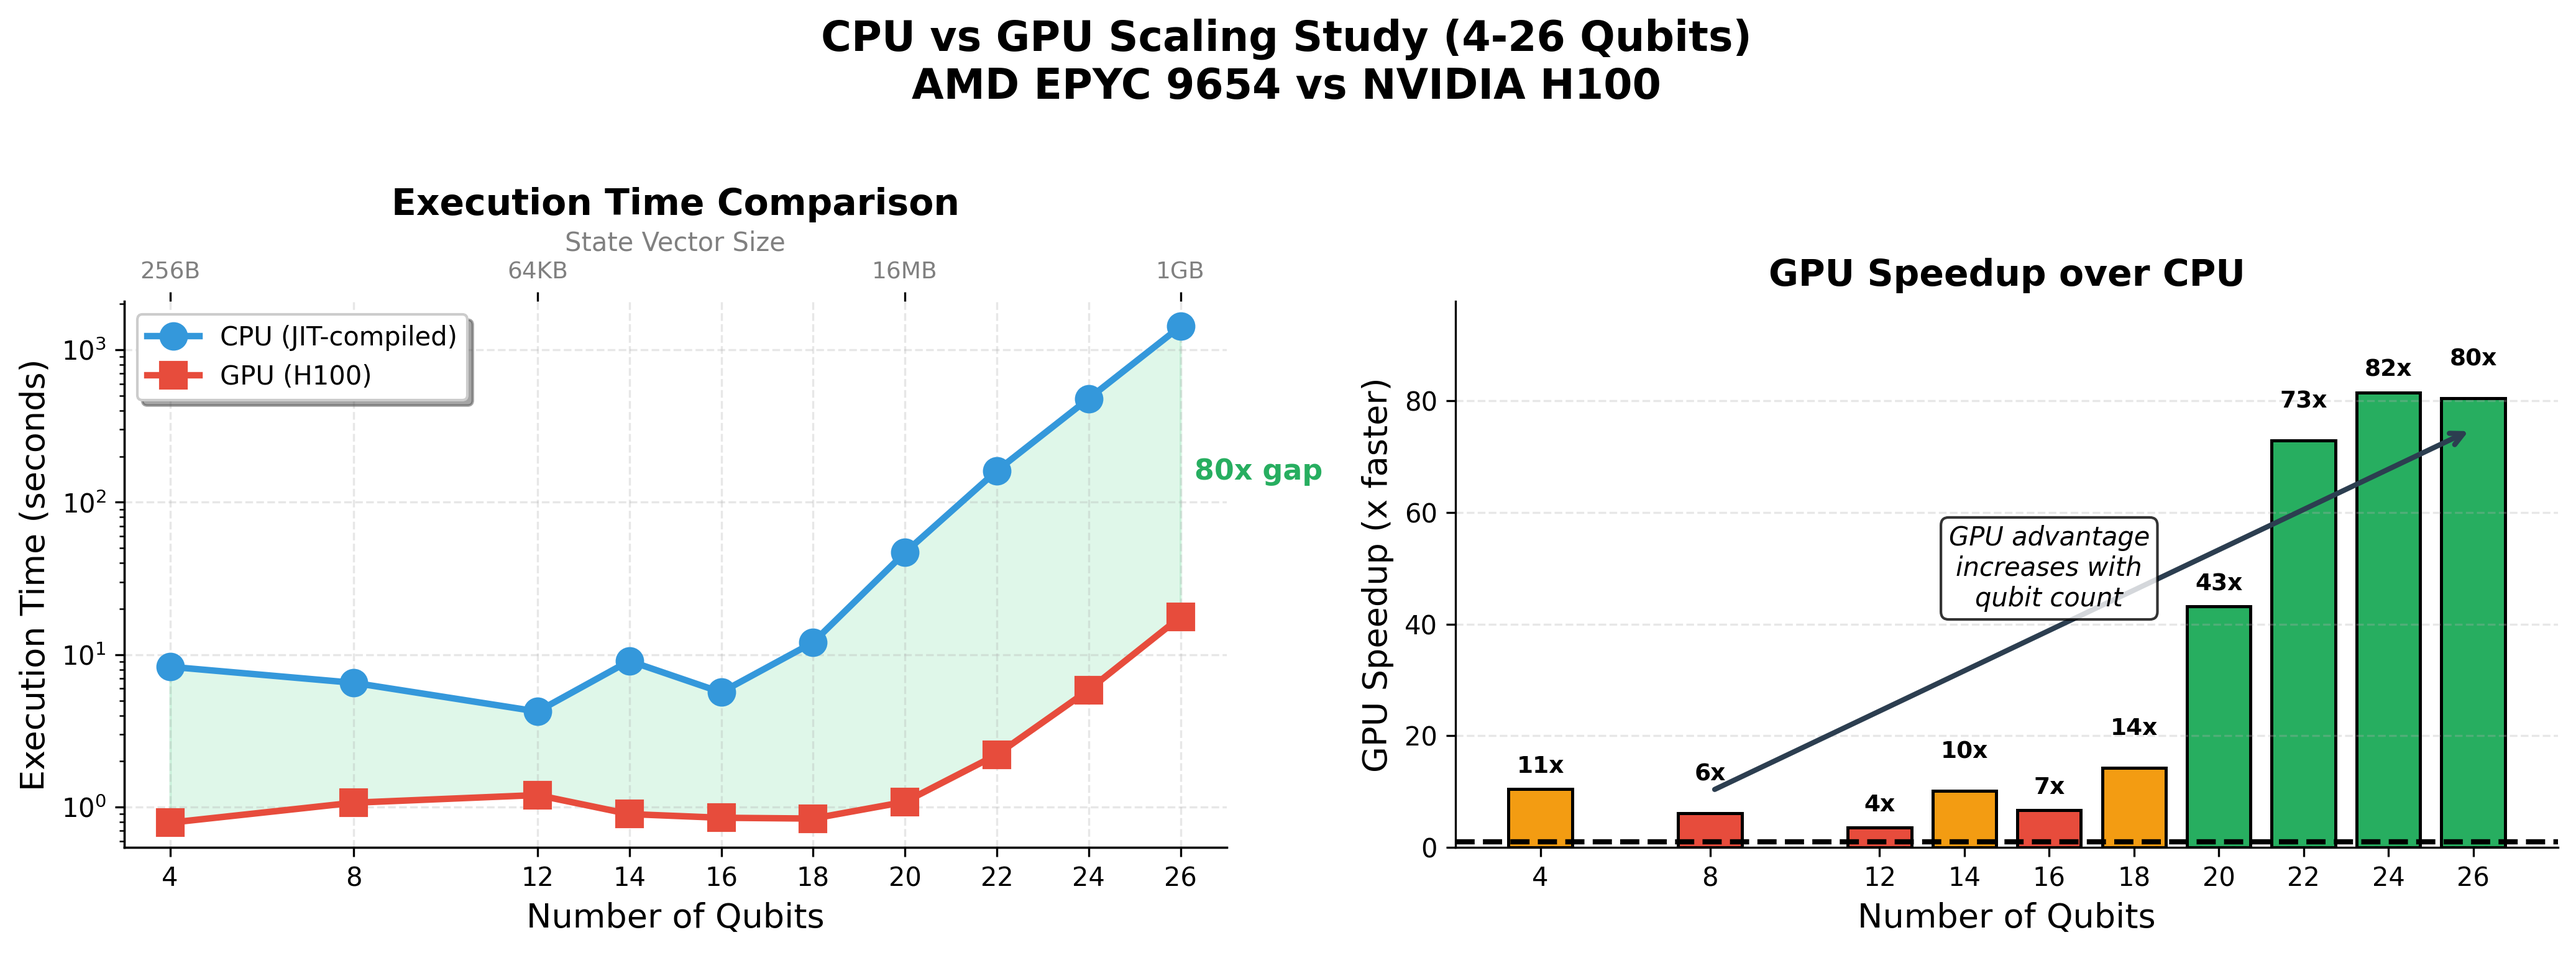
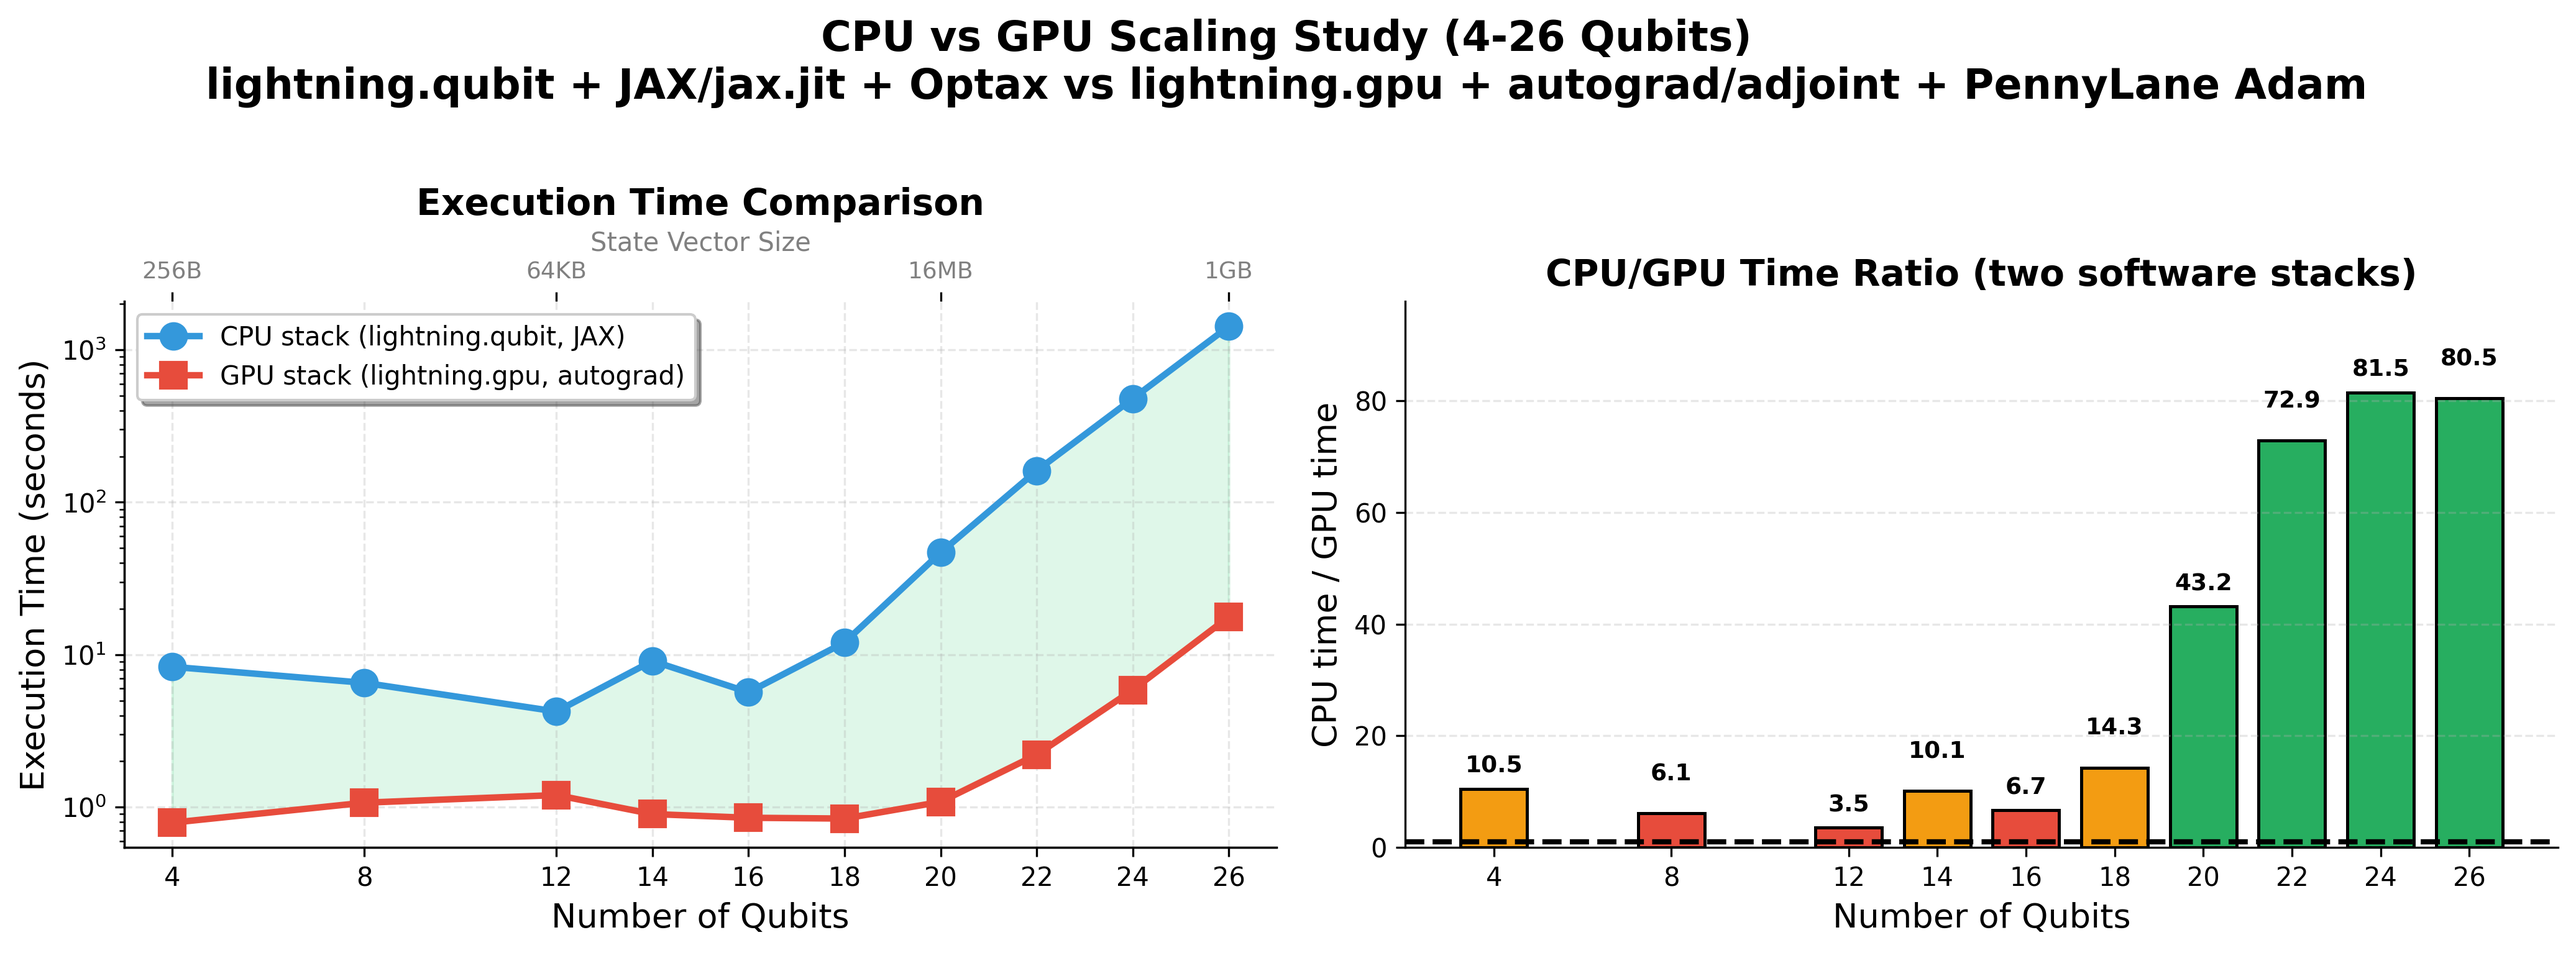
Scaling figure: label CPU/GPU time ratio and both software stacks
(cherry picked from commit 6dfd17319fd8071bf1d12d413d301d4d0c22416e)

diff --git a/scripts/plot_scaling_results_improved.py b/scripts/plot_scaling_results_improved.py
@@ -53,7 +53,7 @@ def plot_scaling_comparison(results):
     speedups = np.array([r['speedup'] for r in results])
     
     fig, axes = plt.subplots(1, 2, figsize=(14, 5))
-    fig.suptitle('CPU vs GPU Scaling Study (4-26 Qubits)\nAMD EPYC 9654 vs NVIDIA H100', 
+    fig.suptitle('CPU vs GPU Scaling Study (4-26 Qubits)\nlightning.qubit + JAX/jax.jit + Optax vs lightning.gpu + autograd/adjoint + PennyLane Adam', 
                  fontsize=16, fontweight='bold', y=1.02)
     
     # =========================================================================
@@ -63,19 +63,13 @@ def plot_scaling_comparison(results):
     
     # Plot with larger markers and thicker lines
     ax1.semilogy(qubits, cpu_times, 'o-', linewidth=2.5, markersize=10, 
-                 color='#3498DB', label='CPU (JIT-compiled)', zorder=3)
+                 color='#3498DB', label='CPU stack (lightning.qubit, JAX)', zorder=3)
     ax1.semilogy(qubits, gpu_times, 's-', linewidth=2.5, markersize=10, 
-                 color='#E74C3C', label='GPU (H100)', zorder=3)
+                 color='#E74C3C', label='GPU stack (lightning.gpu, autograd)', zorder=3)
     
     # Fill between to show the gap
     ax1.fill_between(qubits, gpu_times, cpu_times, alpha=0.15, color='#2ECC71')
     
-    # Annotate the gap at 26 qubits
-    ax1.annotate(f'{speedups[-1]:.0f}x gap', 
-                 xy=(26, np.sqrt(cpu_times[-1] * gpu_times[-1])),
-                 fontsize=11, fontweight='bold', color='#27AE60',
-                 ha='left', va='center',
-                 xytext=(26.3, np.sqrt(cpu_times[-1] * gpu_times[-1])))
     
     ax1.set_xlabel('Number of Qubits', fontsize=13)
     ax1.set_ylabel('Execution Time (seconds)', fontsize=13)
@@ -103,18 +97,11 @@ def plot_scaling_comparison(results):
     bars = ax2.bar(qubits, speedups, color=colors, edgecolor='black', linewidth=1.2, width=1.5)
     
     # Add breakeven line
-    ax2.axhline(y=1.0, color='black', linestyle='--', linewidth=2, label='Breakeven (1x)')
-    
-    # Add trend annotation
-    ax2.annotate('', xy=(26, 75), xytext=(8, 10),
-                 arrowprops=dict(arrowstyle='->', color='#2C3E50', lw=2))
-    ax2.text(16, 50, 'GPU advantage\nincreases with\nqubit count', 
-             fontsize=10, ha='center', va='center', style='italic',
-             bbox=dict(boxstyle='round', facecolor='white', alpha=0.8))
+    ax2.axhline(y=1.0, color='black', linestyle='--', linewidth=2, label='Ratio 1')
     
     ax2.set_xlabel('Number of Qubits', fontsize=13)
-    ax2.set_ylabel('GPU Speedup (x faster)', fontsize=13)
-    ax2.set_title('GPU Speedup over CPU', fontsize=14, fontweight='bold')
+    ax2.set_ylabel('CPU time / GPU time', fontsize=13)
+    ax2.set_title('CPU/GPU Time Ratio (two software stacks)', fontsize=14, fontweight='bold')
     ax2.grid(axis='y', alpha=0.3, linestyle='--')
     ax2.set_xticks(qubits)
     ax2.set_xticklabels(qubits, rotation=0)
@@ -126,7 +113,7 @@ def plot_scaling_comparison(results):
         # Alternate label positions for dense bars
         y_offset = 2 if i % 2 == 0 else 5
         ax2.text(bar.get_x() + bar.get_width()/2., bar.get_height() + y_offset,
-                f'{val:.0f}x', ha='center', va='bottom', fontsize=9, fontweight='bold')
+                f'{val:.1f}', ha='center', va='bottom', fontsize=9, fontweight='bold')
     
     plt.tight_layout()
     plt.savefig('results/scaling_study/scaling_comparison.png', dpi=300, bbox_inches='tight')
